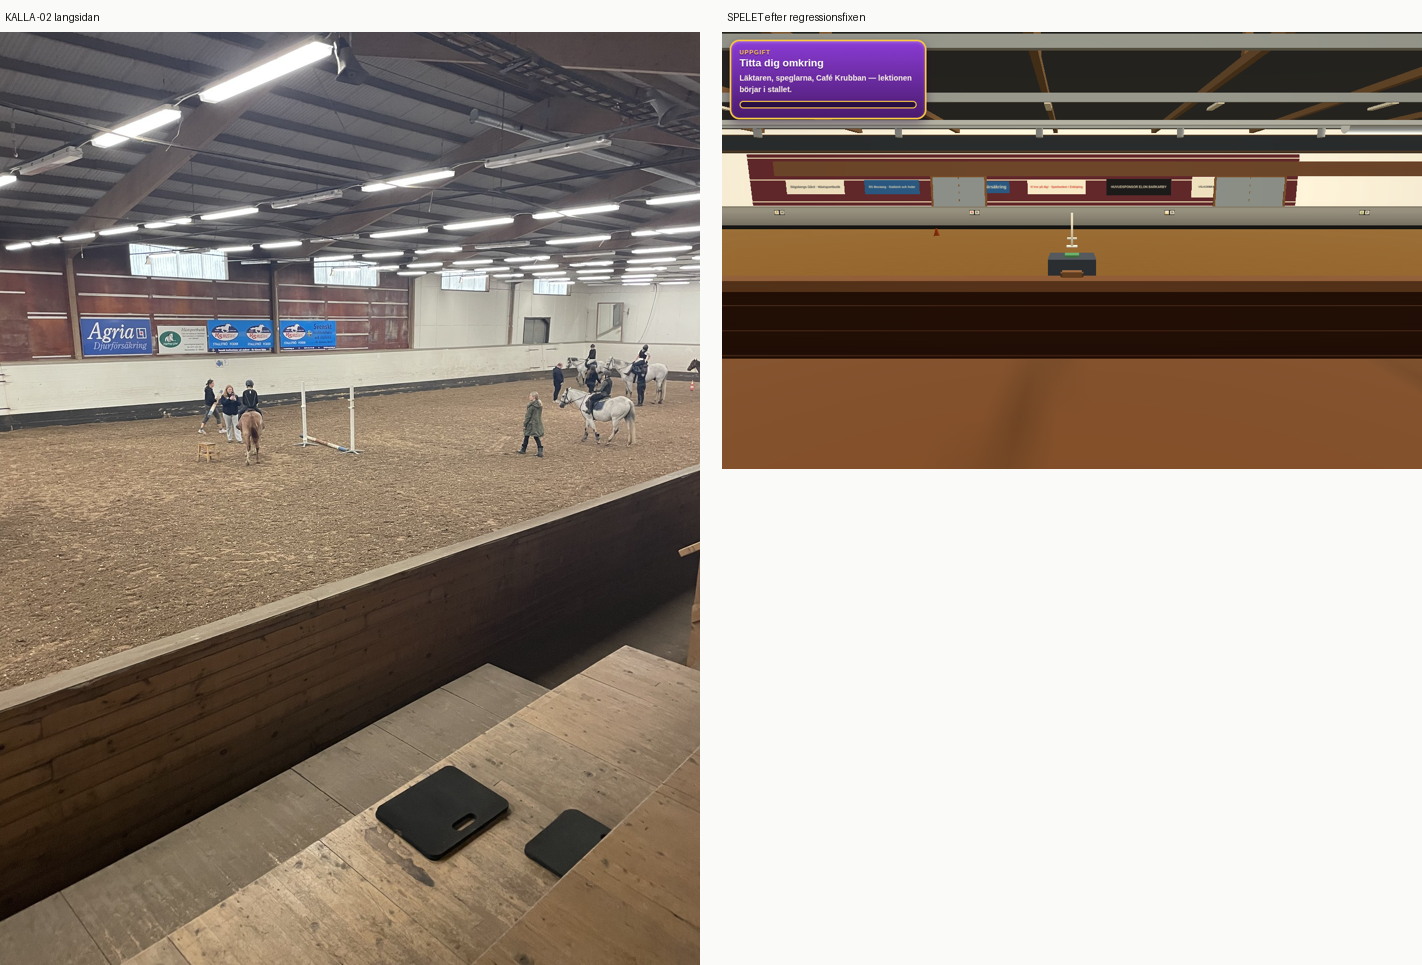
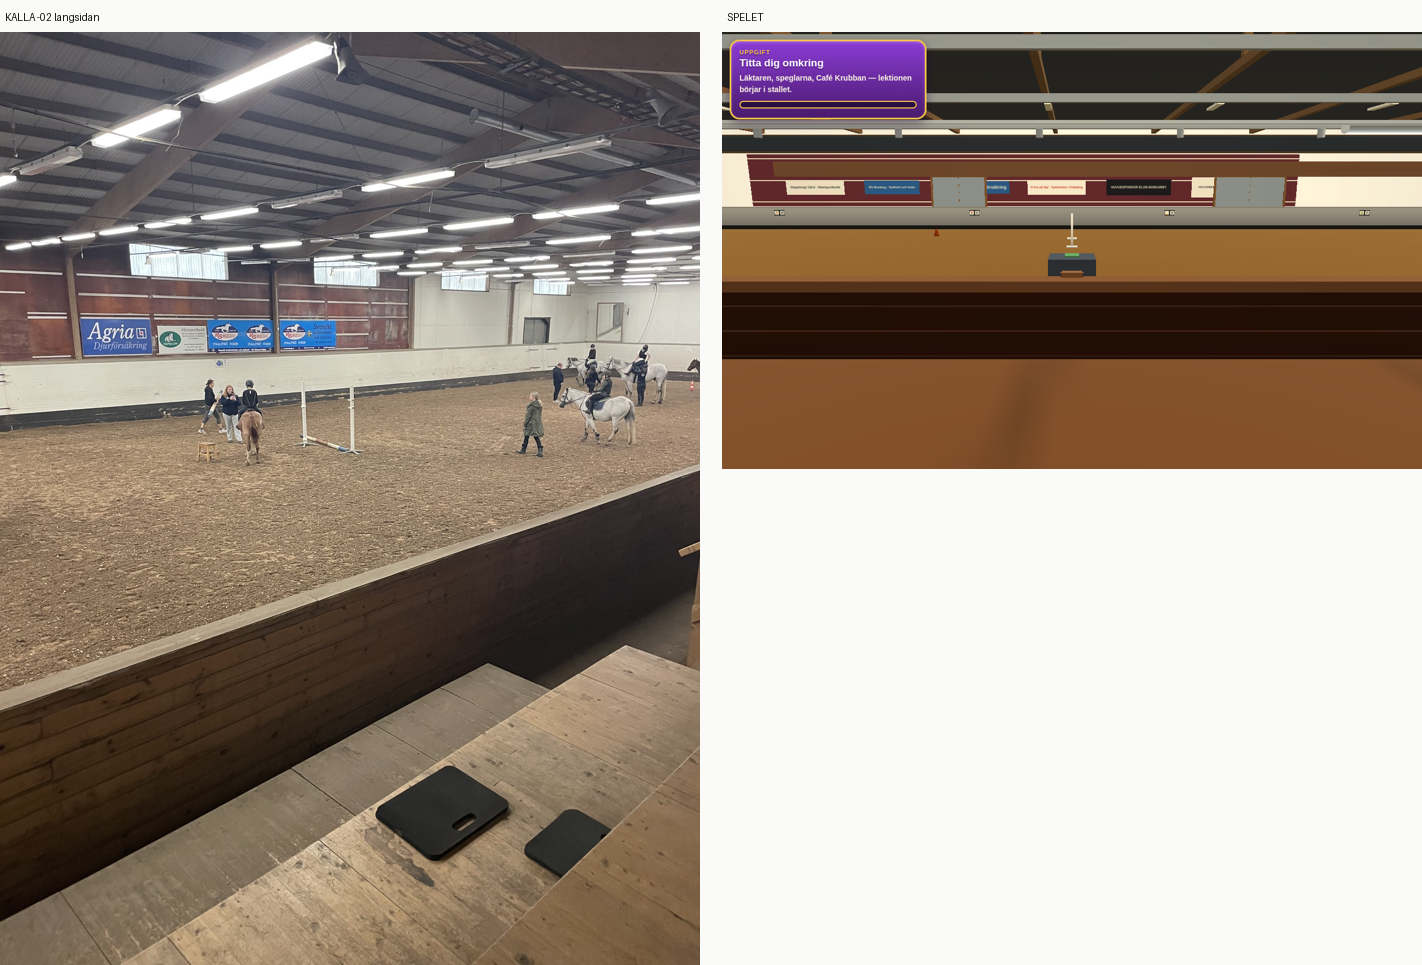
Kortändans vita vägg, kompassrosen och klockan på rätt plats
ridhus-inne-01 beskuren över kortändan visar en HÖG vit vägg mellan översta
bänkraden och fönstrens underkant. Spelet hade glasOver 0,35 — glaset satt
nästan direkt på bänkarna, och det fanns därför ingenstans att sätta vare sig
klocka eller dekor. Det var därför min första placering av stjärnan hamnade
inne i glasbandet. Väggen är nu 1,6 m, DERIVED ur bildens proportioner, och
både klockan och stjärnan mäts FRÅN blockets ovankant i stället för från
glasbandet.

KOMPASSROSEN är byggd: en tunn, linjeritad åttauddig stjärna, inte en fylld
form, som fyra korsade smala stavar. Läget härleds ur `trappor` så att den
följer trapporna om de flyttas.

PICTOGRAMMEN vid bokstäverna — C har en cykel, E en elefant, båda VERIFIED —
ritas inte. Vid bokstävernas skala på sargen blir de några pixlar, och en
fläck som ska föreställa en elefant är sämre än ingen fläck. De står som
verifierat men inte byggt, inte som REFERENCE GAP: källan är tydlig, det är
renderingsskalan som är gränsen.

Bevisbilderna omgjorda mot samma kameror.

Claude-Session: https://claude.ai/code/session_01RBDjv5xAUC4NuuvYQvQjGc

diff --git a/src/site.js b/src/site.js
@@ -1291,12 +1291,26 @@ const RIDHUSINNE = {
      bryter bandet. `[REFERENCE GAP]`: båsens exakta delning. */
   kortanda:{y0:0.4, y1:4.8, x0:1.8, x1:23.2, steg:5, stegH:0.32, stegD:1.05,
             sockelH:0.80,
-            trappor:[7.0, 15.5], trappB:1.2, glasH:2.0, glasOver:0.35,
+            /* `glasOver` var 0,35 m, alltså glaset nästan direkt ovanpå
+               bänkraderna. `ridhus-inne-01` visar en HÖG vit vägg mellan
+               översta bänken och fönstrens underkant — ungefär mansehöjd —
+               och det är på den väggen kompassrosen och klockan sitter. Utan
+               den väggen finns det ingenstans att sätta dem, vilket var
+               varför stjärnan hamnade uppe i glaset vid första försöket.
+               1,6 m är `DERIVED` ur bildens proportioner. */
+            trappor:[7.0, 15.5], trappB:1.2, glasH:2.0, glasOver:1.6,
             glasPost:1.9, glasKarm:"#4A3B2E",
             /* Klockan vid kortändan, MELLAN de två trapporna — x härleds ur
                `trappor` längre ner så att den följer dem. `-01` visar den på
                den vita väggen ovanför blocket. */
-            klocka:{z:2.55, r:0.34}},
+            klocka:{overBlock:1.05, r:0.34},
+            /* KOMPASSROSEN på den vita väggen — `ridhus-inne-01`, beskuren.
+               En TUNN, linjeritad åttauddig stjärna, inte en fylld form.
+               Den sitter till VÄNSTER om den vänstra trappan, ovanför
+               bänkraderna. `VERIFIED` att den finns, var den sitter och att
+               den är linjeritad. `[ASSUMPTION]`: storleken.
+               x härleds ur `trappor` längre ner. */
+            stjarna:{overBlock:0.85, r:0.78, tjocklek:0.05, farg:"#B9B3A6"}},
   /* MOTSÄGELSE 4 (`IMG_0198`): båset ligger vid dressyrbokstaven E, är
      mörkt trä, och nås av en trappa med träräcken. Över öppningen sitter
      en grön exit-skylt. E ligger vid husets y = 32 sedan bokstäverna
@@ -1516,6 +1530,9 @@ STALLINNE.info=[
   if(R.trappa)  R.trappa.x  = R.laktare.x0 + inatL*(-1.0);
   /* Kortändans klocka sitter MELLAN de två trapporna. */
   const K=R.kortanda;
-  if(K&&K.klocka&&K.trappor&&K.trappor.length>=2)
-    K.klocka.x=(K.trappor[0]+K.trappor[1])/2;
+  if(K&&K.trappor&&K.trappor.length>=2){
+    if(K.klocka)  K.klocka.x=(K.trappor[0]+K.trappor[1])/2;
+    /* Stjärnan sitter till vänster om vänstra trappan. */
+    if(K.stjarna) K.stjarna.x=(K.x0+K.trappor[0])/2;
+  }
 })();

diff --git a/src/varld3d.js b/src/varld3d.js
@@ -1461,14 +1461,24 @@ function v3dRidhus(lagg,opp){
         gl.lada(0.14,K.glasH,0.22,K.glasKarm,
           M4.translation(a+w*i/n,gz+K.glasH/2,K.y0+0.05));
     }
+    /* KOMPASSROSEN på den vita väggen, vänster om vänstra trappan — `-01`.
+       Linjeritad, inte fylld: fyra korsade tunna stavar ger de åtta uddarna
+       och läser som en ritad stjärna på det här avståndet. */
+    /* Både stjärnan och klockan mäts FRÅN blockets ovankant (H), på den vita
+       väggen mellan bänkarna och glaset. Att mäta dem från glasbandet lade
+       stjärnan inne i glaset. */
+    if(K.stjarna){const ST=K.stjarna, sy=H+ST.overBlock;
+      for(let i=0;i<4;i++){
+        const v=i*Math.PI/4, lang=(i%2===0)?ST.r*2:ST.r*1.45;
+        gl.lada(lang,ST.tjocklek,0.04,ST.farg,
+          M4.mul(M4.translation(ST.x,sy,K.y1+0.05),M4.rotZ(v)));
+      }}
     /* Klockan vid kortändan, mellan trapporna — `-01`. */
-    if(K.klocka){const KL=K.klocka;
-      gl.cyl(KL.r,KL.r,0.07,"#F2F0E8",
-        M4.mul(M4.translation(KL.x,gz+K.glasH+KL.z-1.4,K.y1+0.06),
-               M4.rotX(Math.PI/2)),16);
-      gl.cyl(KL.r*0.80,KL.r*0.80,0.02,"#2E2E2C",
-        M4.mul(M4.translation(KL.x,gz+K.glasH+KL.z-1.4,K.y1+0.10),
-               M4.rotX(Math.PI/2)),16);}
+    if(K.klocka){const KL=K.klocka, ky=H+KL.overBlock;
+      gl.cyl(KL.r,KL.r,0.07,"#2A2A2C",
+        M4.mul(M4.translation(KL.x,ky,K.y1+0.05),M4.rotX(Math.PI/2)),18);
+      gl.cyl(KL.r*0.84,KL.r*0.84,0.03,"#F4F1E8",
+        M4.mul(M4.translation(KL.x,ky,K.y1+0.09),M4.rotX(Math.PI/2)),18);}
     lagg(gl,null);
    }}
   /* Entré- och trapphusdelen i norra gaveln, mot parkeringen.

diff --git a/references/buildings/ridhus/INTERIOR-MATRIS.md b/references/buildings/ridhus/INTERIOR-MATRIS.md
@@ -57,7 +57,9 @@ De två strukturerna hade blandats ihop.
 | Glaset går i bås med poster, inte som en remsa | `VERIFIED` | r01 | `glasPost` |
 | Båsens exakta delning | `[REFERENCE GAP]` | — | 1,9 m vald |
 | Rund vit klocka på den vita väggen | `VERIFIED` | r01 | byggs |
-| Vit stående brädvägg med stjärndekor | `VERIFIED` | r01 | `[REFERENCE GAP]` — dekoren ritas inte |
+| Vit stående brädvägg mellan bänkar och glas | `VERIFIED` | r01 | rättad — `glasOver` 0,35 → 1,6 |
+| Kompassros, LINJERITAD, vänster om vänstra trappan | `VERIFIED` | r01, beskuren | byggd — `kortanda.stjarna` |
+| Bokstaven C har en CYKELbild, E en elefant | `VERIFIED` | r01 + r03 | ritas inte, se nedan |
 | Alla meter | `[REFERENCE GAP]` | — | topologi rätt, mått valda |
 
 ## 4. Övre långväggen — `KNOWN MISMATCH B`, delvis
@@ -353,3 +355,25 @@ upplysta och mörka rutor**. Långsidans band går att bedöma i vyn
 Speglarna hänger nu på panelväggen via `spegelSida`, och cafeklockan och
 trätrappan följer läktarsidan. Inget av dem är kvar som literaler. En
 spegling är därmed en dataändring även för väggdekoren.
+
+## Kompassrosen, den vita väggen och pictogrammen
+
+`ridhus-inne-01` beskuren över kortändan visar tre saker som spelet saknade:
+
+1. **En hög vit vägg** mellan översta bänkraden och fönstrens underkant,
+   ungefär mansehöjd. Spelet hade `glasOver:0.35` — glaset satt nästan
+   direkt på bänkarna, och det fanns därför ingenstans att sätta vare sig
+   klocka eller dekor. Det var det som gjorde att stjärnan hamnade inne i
+   glaset vid första försöket. Nu 1,6 m, `DERIVED` ur bildens proportioner.
+
+2. **Kompassrosen** — en TUNN, linjeritad åttauddig stjärna, inte en fylld
+   form. Byggd som fyra korsade smala stavar, vilket läser som en ritad
+   stjärna på det avståndet. Läget härleds ur `trappor` så att den följer
+   trapporna. `[ASSUMPTION]`: storleken.
+
+3. **Pictogrammen vid bokstäverna**: C har en CYKEL, E har en elefant. Båda
+   `VERIFIED`. De ritas INTE — vid den skala bokstäverna har på sargen blir
+   en cykel eller elefant några pixlar, och en fläck som ska föreställa en
+   elefant är sämre än ingen fläck. Står som verifierat men inte byggt, inte
+   som `REFERENCE GAP`: källan är tydlig, det är renderingsskalan som är
+   gränsen.
